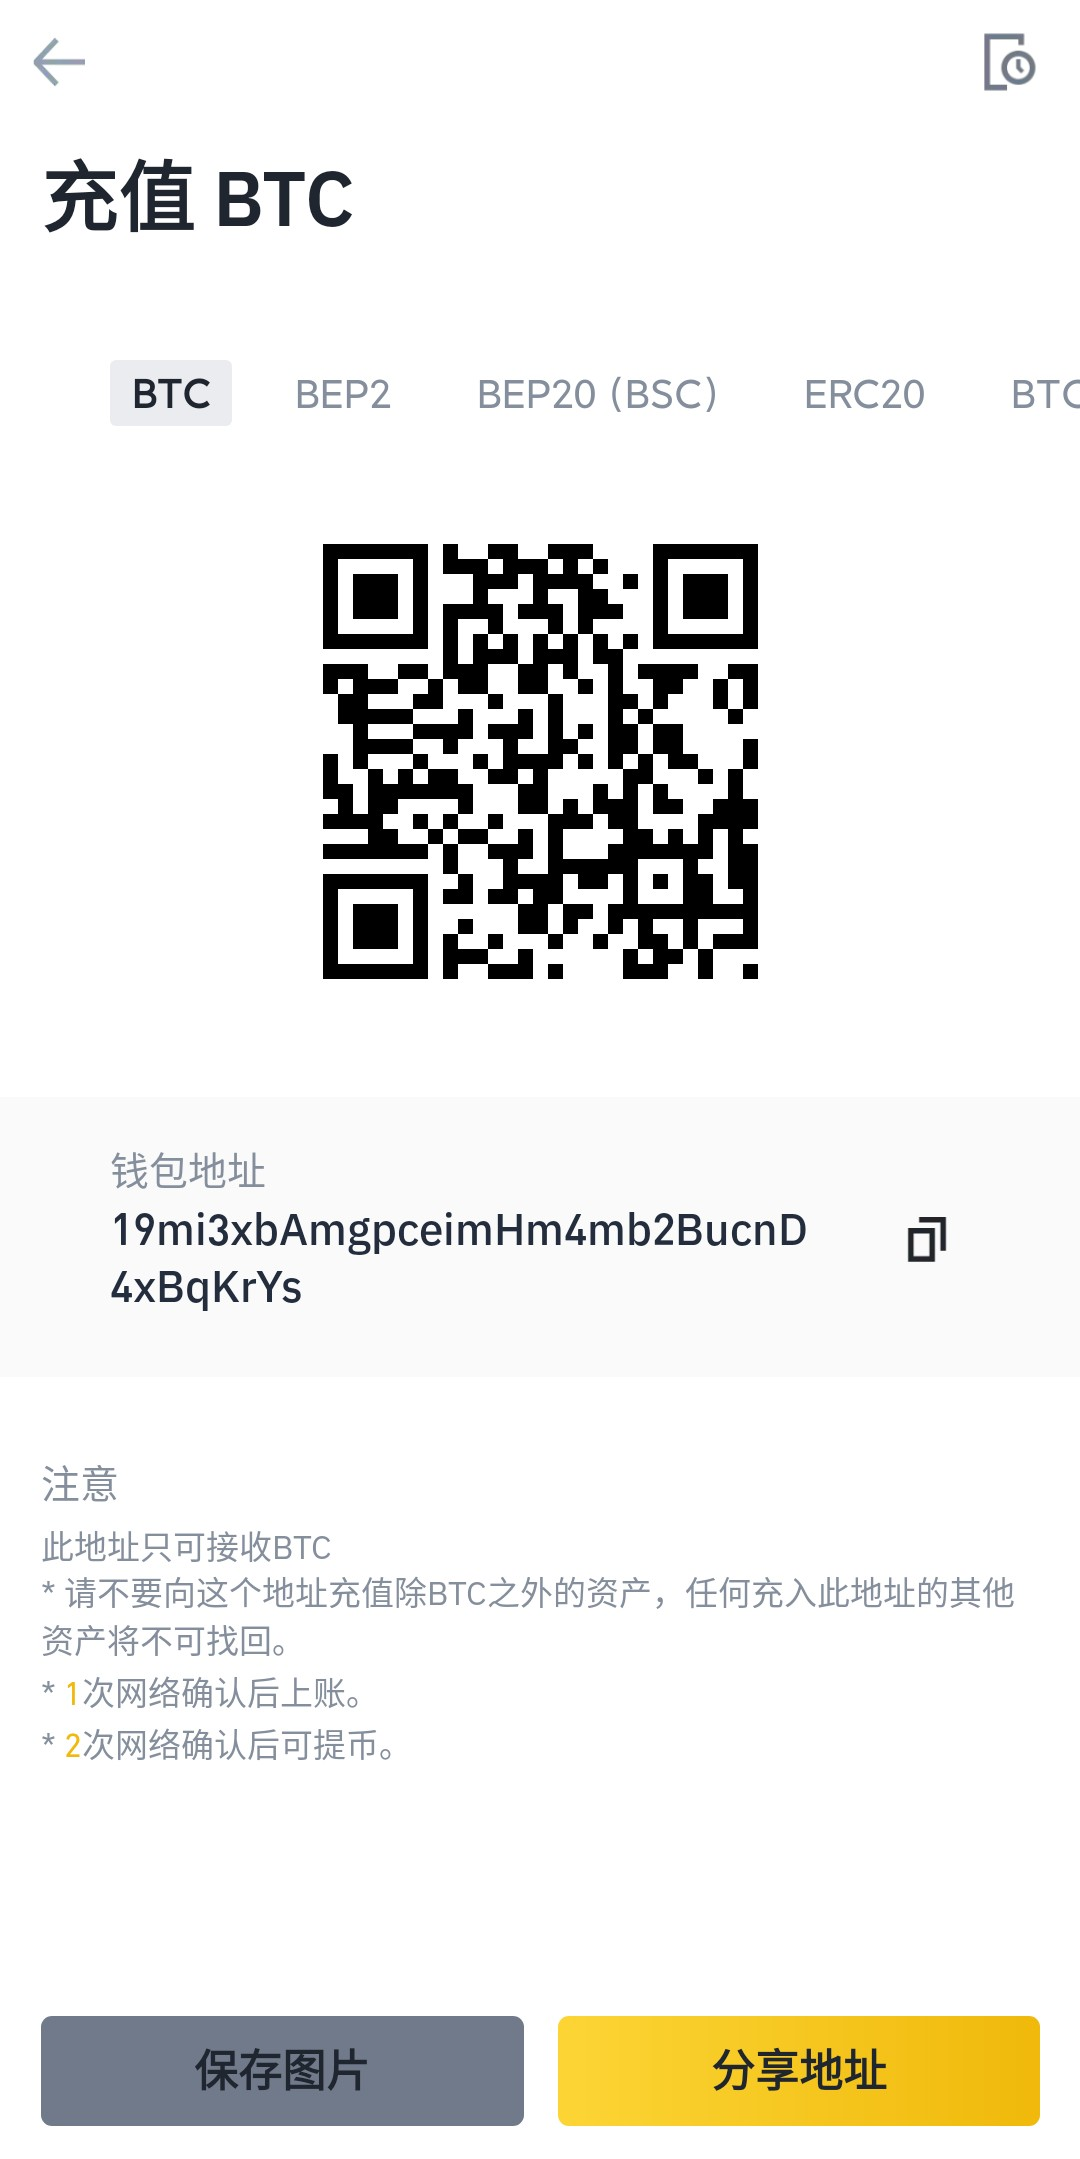
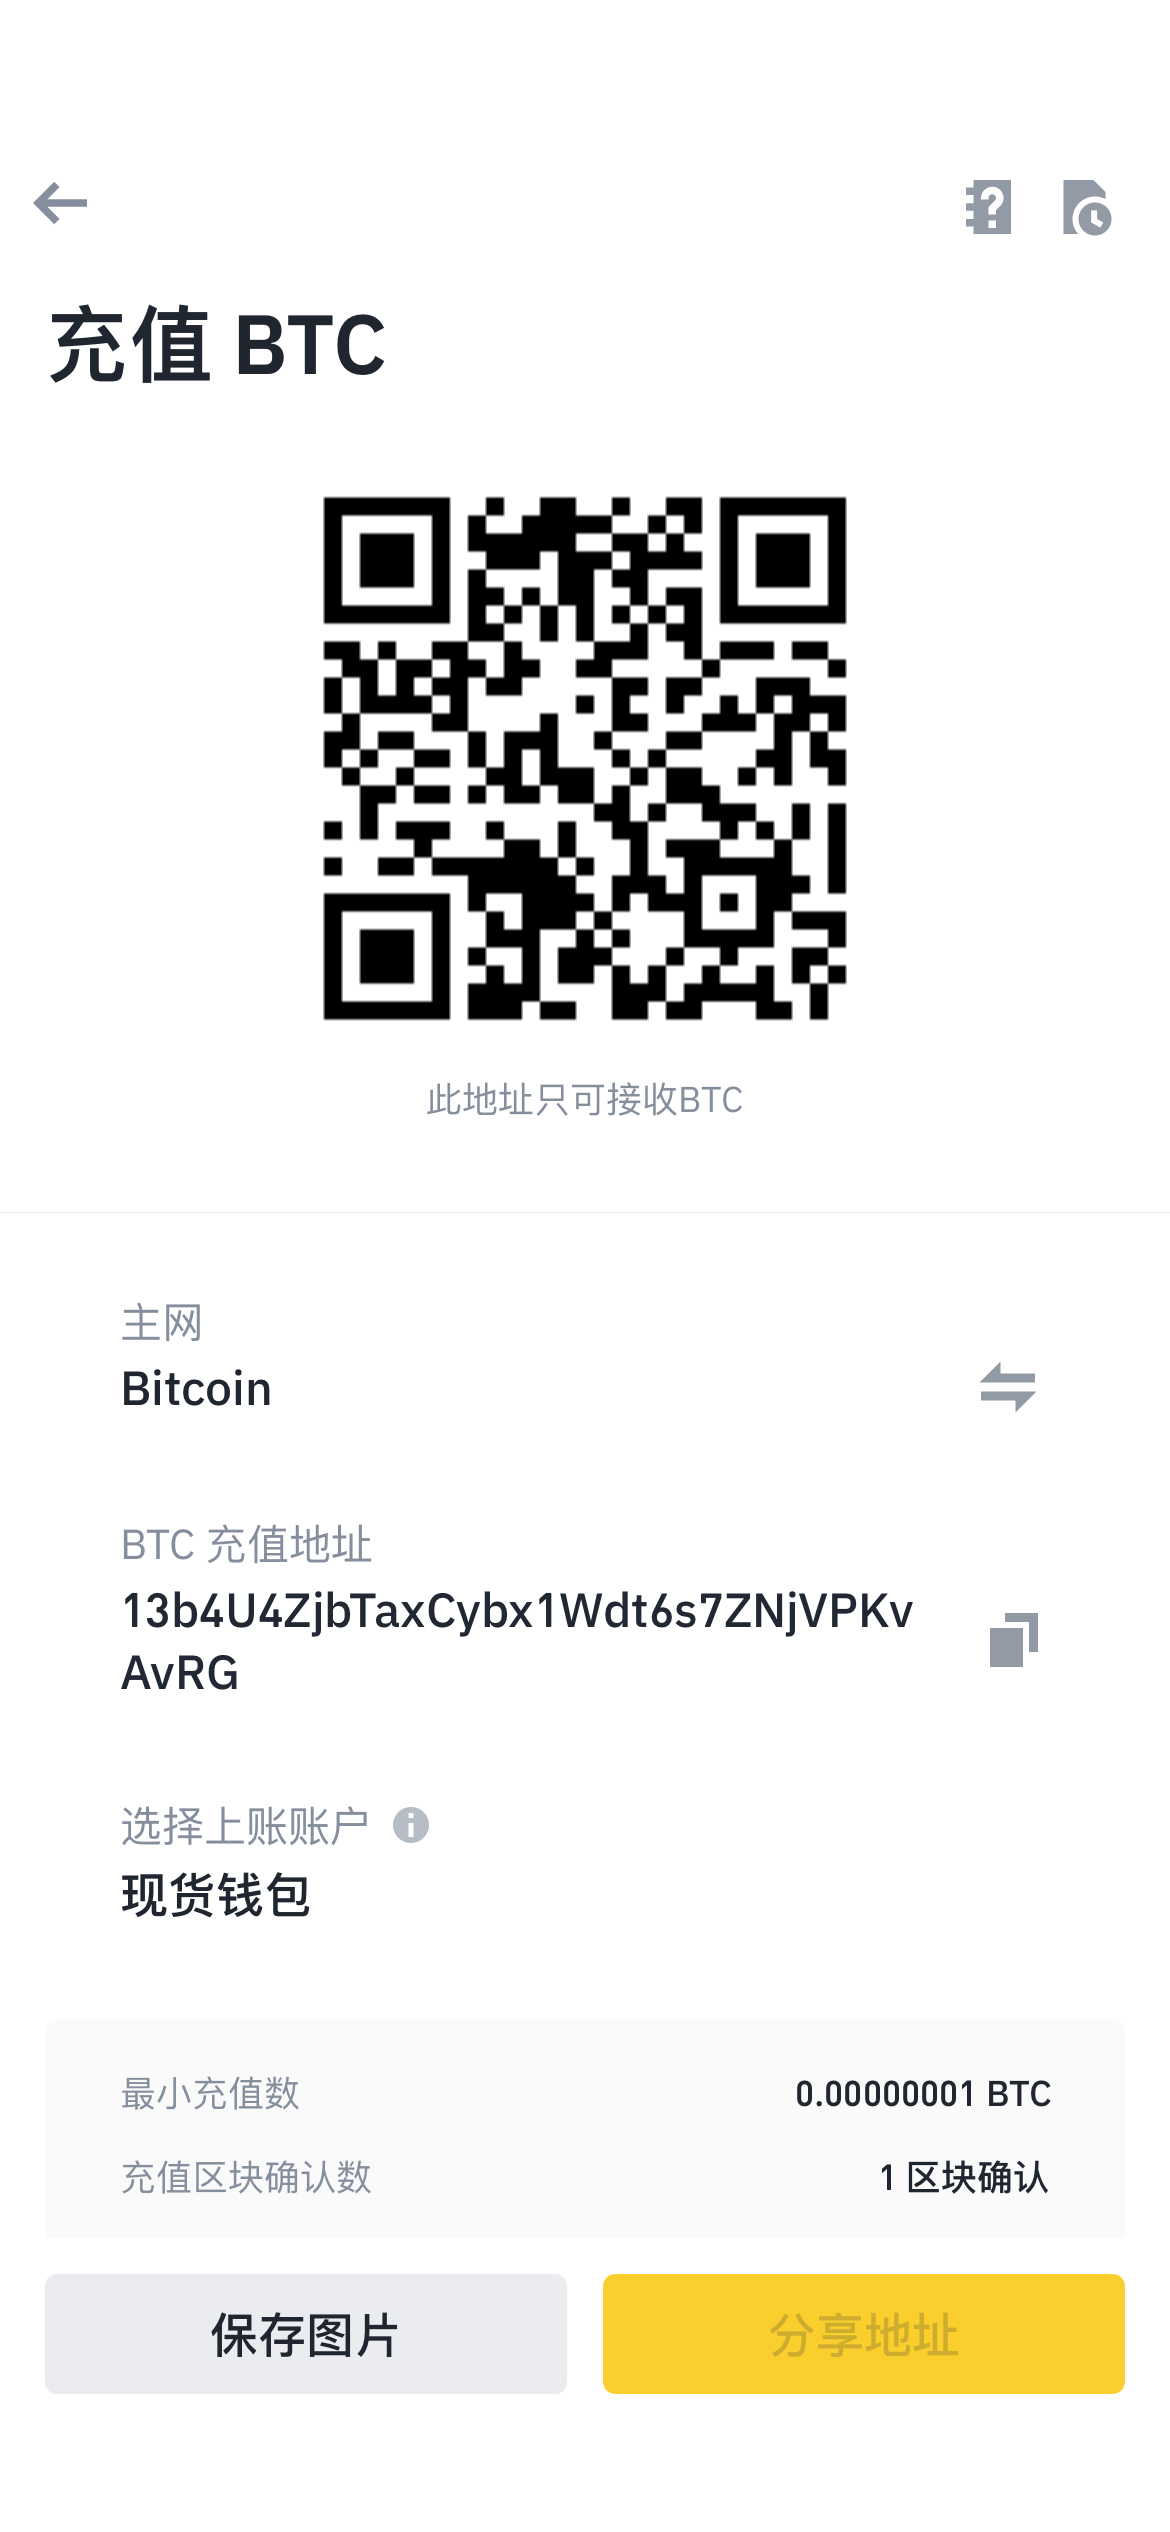
update coin address

diff --git a/index.html b/index.html
@@ -80,7 +80,7 @@
                             <div class="input-group">
                                 <input class="form-control" type="text" id="btc-address"
                                        data-bs-original-title="Copy to clipboard"
-                                       value="19mi3xbAmgpceimHm4mb2BucnD4xBqKrYs">
+                                       value="13b4U4ZjbTaxCybx1Wdt6s7ZNjVPKvAvRG">
                                 <button class="btn btn-copy btn-outline-primary"
                                         data-clipboard-target="#btc-address">Copy
                                 </button>
@@ -100,7 +100,7 @@
                         <div class="modal-body">
                             <div class="input-group">
                                 <input class="form-control" type="text" id="eth-address"
-                                       value="0xe5b2daa85d318a79761798c7e15a4e59a367d41c">
+                                       value="0xc99b54df7cc82580363528ae21ea8e9ceec58224">
                                 <button class="btn btn-copy btn-outline-primary"
                                         data-clipboard-target="#eth-address">Copy
                                 </button>
@@ -121,7 +121,7 @@
                         <div class="modal-body">
                             <div class="input-group">
                                 <input class="form-control" type="text" id="usdt-address"
-                                       value="0xe5b2daa85d318a79761798c7e15a4e59a367d41c">
+                                       value="0xc99b54df7cc82580363528ae21ea8e9ceec58224">
                                 <button class="btn btn-copy btn-outline-primary"
                                         data-clipboard-target="#usdt-address">Copy
                                 </button>
